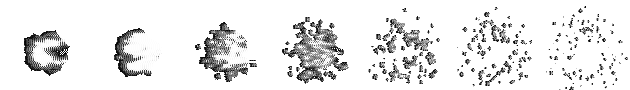
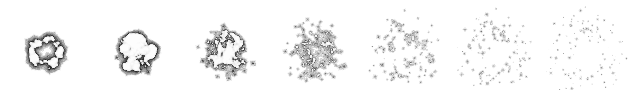
Geçit, alev ve ışık efektlerinin görsel çözümünü düzelt (piksel başına renk + saydamlık)
Claude-Session: https://claude.ai/code/session_0136BW7x6RP9WZJqwhrZMHwW

diff --git a/www/js/assets.js b/www/js/assets.js
@@ -92,7 +92,7 @@ const Assets = (() => {
     constructor(name) {
       const r = D.reg[name]; this.ok = !!r; if (!r) return;
       this.r = r; this.A = ANI[r[0] + '_' + r[2]]; this.ok = !!this.A;
-      this.add = /火焰|火光|光柱|光芒|传送门/.test(name);   // ışık efektleri: alev, geçit
+      this.add = false;   // alev ve geçit görselleri kendi saydamlık kanalıyla gelir (çözücüde düzeltildi), özel karıştırma gerekmez
       loadImg(r[0] + '_' + r[1]).catch(() => { });
     }
     get anims() { return this.A ? this.A.a : []; }

diff --git a/tools/img2.py b/tools/img2.py
@@ -27,12 +27,17 @@ def index_image(b):
             A[k]=0 if P[px[k]]==[255,0,255] else 255
     else:
         table,px=groups[0],groups[1]; p=0
+        # bazı görsellerde (alev, geçit, ışık efektleri) her piksel 2 bayttır: renk numarası + saydamlık
+        spans=[]; q0=0
         for y in range(h):
-            if p+2>len(table): break
-            n=struct.unpack_from('<H',table,p)[0]//8; p+=2
+            if q0+2>len(table): break
+            n=struct.unpack_from('<H',table,q0)[0]//8; q0+=2
             for s in range(n):
-                off,x0,x1=struct.unpack_from('<IHH',table,p); p+=8
-                x1=min(x1,w); q=y*w+x0
-                L[q:q+x1-x0]=px[off:off+x1-x0]; A[q:q+x1-x0]=b'\xff'*(x1-x0)
+                off,x0,x1=struct.unpack_from('<IHH',table,q0); q0+=8; spans.append((y,off,x0,x1))
+        two=len(spans)>1 and all(b[1]-a[1]==2*(a[3]-a[2]) for a,b in zip(spans,spans[1:])) and not all(b[1]-a[1]==(a[3]-a[2]) for a,b in zip(spans,spans[1:]))
+        for y,off,x0,x1 in spans:
+            x1=min(x1,w); q=y*w+x0; n=x1-x0
+            if two: seg=px[off:off+2*n]; L[q:q+n]=seg[0::2]; A[q:q+n]=seg[1::2]
+            else: L[q:q+n]=px[off:off+n]; A[q:q+n]=b'\xff'*n
     im=Image.merge('LA',(Image.frombytes('L',(w,h),bytes(L)),Image.frombytes('L',(w,h),bytes(A))))
     return im,P
